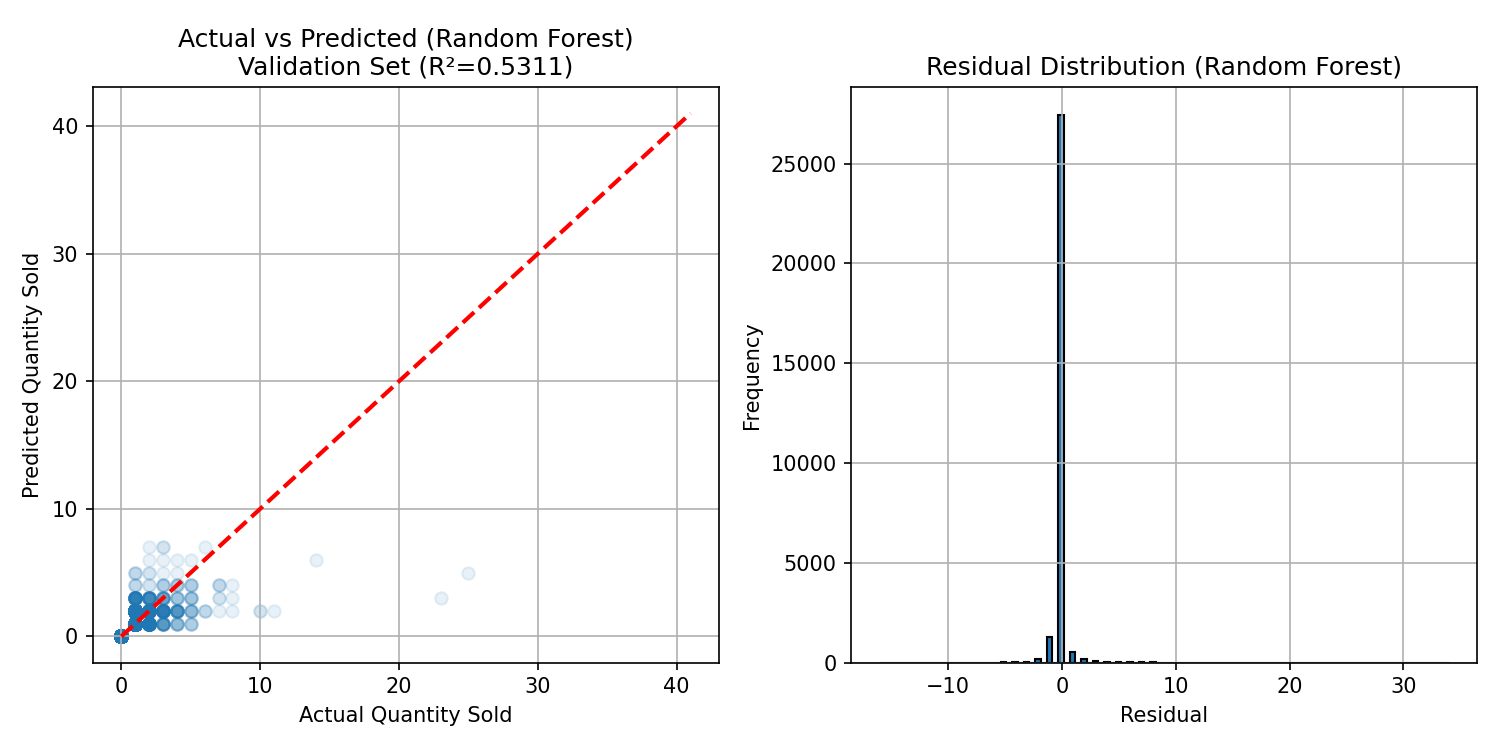
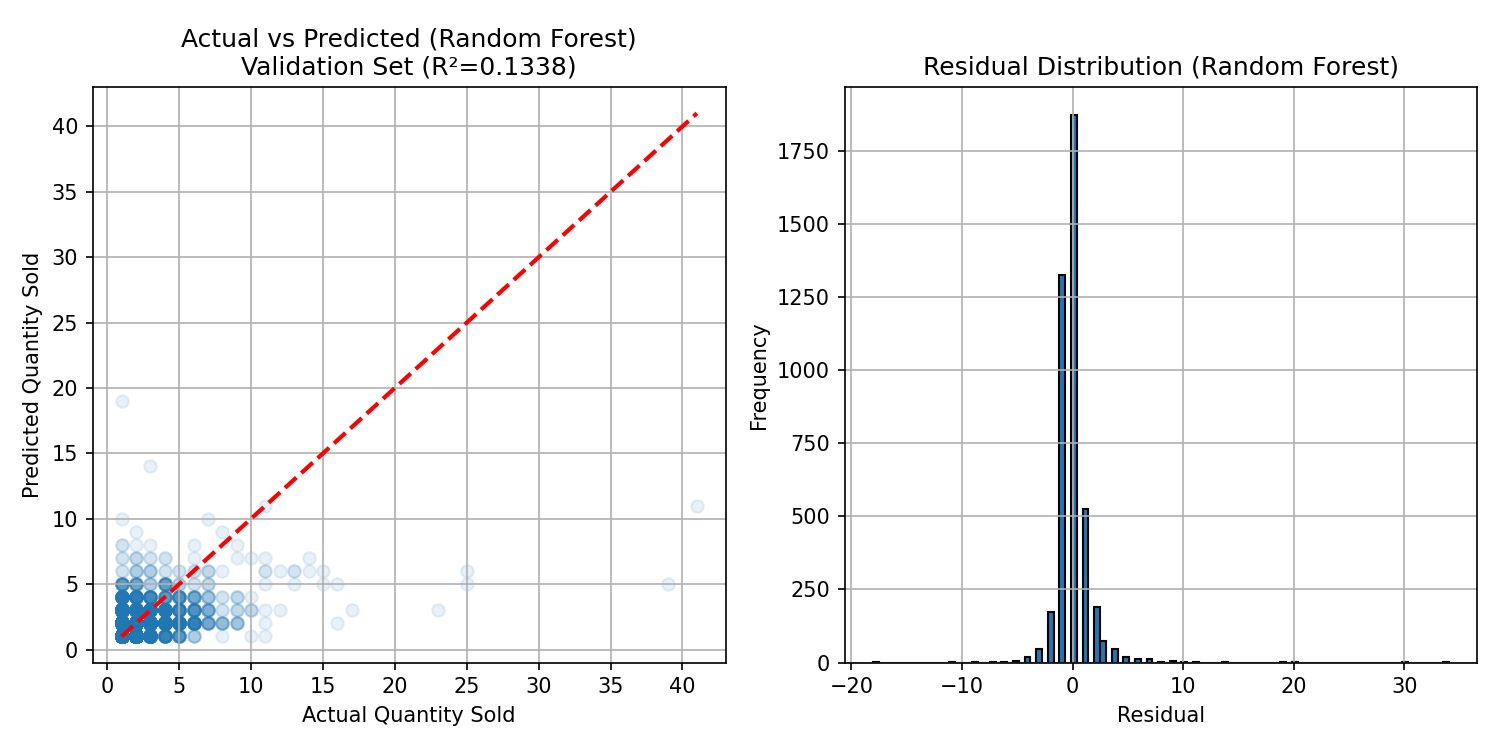
update code

diff --git a/model_olist/main_olist.py b/model_olist/main_olist.py
@@ -6,6 +6,7 @@ from sklearn.metrics import mean_absolute_error, mean_squared_error, r2_score
 import matplotlib.pyplot as plt
 import functools
 import warnings
+import holidays
 from lightgbm import LGBMRegressor
 
 # --- 1. IMPORT MODELS FOR COMPARISON ---
@@ -31,6 +32,8 @@ try:
     df_items = pd.read_csv('olist_order_items_dataset.csv')
     df_products = pd.read_csv('olist_products_dataset.csv')
     df_trans = pd.read_csv('product_category_name_translation.csv')
+    df_sellers = pd.read_csv('olist_sellers_dataset.csv')
+    print("Olist CSV files loaded successfully.")
     # (อาจเพิ่มไฟล์อื่นถ้าต้องการ Feature เพิ่มเติม)
     print("Olist CSV files loaded successfully.")
 except FileNotFoundError as e:
@@ -52,12 +55,22 @@ df = pd.merge(df_orders, df_items, on='order_id', how='inner')
 df = pd.merge(df, df_products, on='product_id', how='left')
 df = pd.merge(df, df_trans, on='product_category_name', how='left')
 
+df_merged = pd.merge(df_orders, df_items, on='order_id', how='inner')
+df_merged = pd.merge(df_merged, df_products, on='product_id', how='left')
+df_merged = pd.merge(df_merged, df_trans, on='product_category_name', how='left')
+df_merged = pd.merge(df_merged, df_sellers[['seller_id', 'seller_state']], on='seller_id', how='left')
+df_merged['seller_state'] = df_merged['seller_state'].fillna('Unknown')
+le_state = LabelEncoder()
+df_merged['seller_state_encoded'] = le_state.fit_transform(df_merged['seller_state'])
+df = df_merged.copy()
+
 # เลือกคอลัมน์ที่จำเป็น + สร้าง Quantity (order_item_id คือ ลำดับ item ใน order ไม่ใช่ quantity)
 df['quantity'] = 1 # Assume each row in order_items is 1 unit sold for simplicity
 df_agg = df[[
     'order_purchase_timestamp',
     'product_id',
     'product_category_name_english',
+    'seller_state_encoded',
     'price', # ราคาขายต่อหน่วย
     'quantity', # สร้างคอลัมน์ quantity
     'product_weight_g',
@@ -77,7 +90,7 @@ df_agg['Date'] = df_agg['order_purchase_timestamp']
 df_agg = df_agg.set_index('Date')
 
 # รวมยอดขายและคำนวณราคาเฉลี่ย รายสัปดาห์ ต่อ Product
-weekly_data = df_agg.groupby(['product_id', 'product_category_name_english', pd.Grouper(freq='W-MON')]).agg(
+weekly_data = df_agg.groupby(['product_id', 'product_category_name_english', 'seller_state_encoded', pd.Grouper(freq='W-MON')]).agg(
     QuantitySold=('quantity', 'count'), # ใช้ count เพราะเราสมมติว่า 1 แถว = 1 ชิ้น
     AverageSellingPrice=('price', 'mean'),
     Weight_g_Mean=('product_weight_g', 'mean'),
@@ -121,85 +134,109 @@ print(f"Date range: {df['Date'].min()} to {df['Date'].max()}")
 print("\n=== Creating Olist Weekly Features ===")
 df = df.sort_values(by=['product_id', 'Date'])
 
-# Encode Category
+# 6.1 Encode Category
 print("Encoding categorical features (Category)...")
 encoders = {}
 le_cat = LabelEncoder()
+# แปลงเป็น category เพื่อลดหน่วยความจำ (ทางเลือก)
+# df['product_category_name_english'] = df['product_category_name_english'].astype('category')
 df['category_encoded'] = le_cat.fit_transform(df['product_category_name_english'])
 encoders['category'] = le_cat
 encoders['product_id'] = 'Numeric'
 
-# Time Features
+# 6.2 Time features (ต้องมาก่อน เพื่อใช้ประกอบกับ holiday)
 print("Creating time features...")
 df['Year'] = df['Date'].dt.year
 df['Month'] = df['Date'].dt.month
-df['Week'] = df['Date'].dt.isocalendar().week.astype(float)
-# --- !! เพิ่มเติม !! ---
-df['DayOfWeek'] = df['Date'].dt.dayofweek # 0=Monday, 6=Sunday
+# เก็บ Week เป็น int ก่อน (เหมาะกับการ merge/groupby)
+df['Week'] = df['Date'].dt.isocalendar().week.astype(int)
+df['DayOfWeek'] = df['Date'].dt.dayofweek          # 0=Mon, 6=Sun
 df['IsWeekend'] = df['DayOfWeek'].isin([5, 6]).astype(int)
 df['Quarter'] = df['Date'].dt.quarter
-# --------------------
+
+# 6.3 Holiday → สร้าง IsHolidayWeek จากปฏิทินจริง แล้ว merge ด้วย (Year, Week)
+print("Building holiday-week feature...")
+br_holidays = holidays.Brazil(
+    years=range(df['Date'].dt.year.min(), df['Date'].dt.year.max() + 1)
+)
+holiday_df = pd.DataFrame({'hday': pd.to_datetime(list(br_holidays.keys()))})
+holiday_df['Year'] = holiday_df['hday'].dt.year
+holiday_df['Week'] = holiday_df['hday'].dt.isocalendar().week.astype(int)
+holiday_weeks = holiday_df[['Year', 'Week']].drop_duplicates()
+holiday_weeks['IsHolidayWeek'] = 1
+
+df = df.merge(holiday_weeks, on=['Year', 'Week'], how='left')
+df['IsHolidayWeek'] = df['IsHolidayWeek'].fillna(0).astype(int)
+
+# 6.4 Cyclical time features (ค่อยแปลง Week → float สำหรับ sine/cos)
 df['Month_Sin'] = np.sin(2 * np.pi * df['Month']/12)
 df['Month_Cos'] = np.cos(2 * np.pi * df['Month']/12)
-df['Week_Sin'] = np.sin(2 * np.pi * df['Week']/52)
-df['Week_Cos'] = np.cos(2 * np.pi * df['Week']/52)
+df['Week'] = df['Week'].astype(float)
+df['Week_Sin']  = np.sin(2 * np.pi * df['Week']/52)
+df['Week_Cos']  = np.cos(2 * np.pi * df['Week']/52)
 
-# Lag Features (ใช้ QuantitySold และ AverageSellingPrice)
+# 6.5 Lag features (Demand & Price)
 print("Creating lag features...")
-df['Qty_Lag_1'] = df.groupby('product_id')['QuantitySold'].shift(1)
+df['Qty_Lag_1']  = df.groupby('product_id')['QuantitySold'].shift(1)
 df['Price_Lag_1'] = df.groupby('product_id')['AverageSellingPrice'].shift(1)
 df['Price_Diff_Lag_1'] = df['AverageSellingPrice'] - df['Price_Lag_1']
-# --- !! เพิ่มเติม !! ---
-df['Qty_Lag_2'] = df.groupby('product_id')['QuantitySold'].shift(2) # Lag 2 สัปดาห์
-df['Qty_Lag_52'] = df.groupby('product_id')['QuantitySold'].shift(52) # Lag 1 ปี
-df['Qty_Lag_3'] = df.groupby('product_id')['QuantitySold'].shift(3)
-df['Qty_Lag_4'] = df.groupby('product_id')['QuantitySold'].shift(4)
-df['Qty_Lag_8'] = df.groupby('product_id')['QuantitySold'].shift(8)
+
+df['Qty_Lag_2']  = df.groupby('product_id')['QuantitySold'].shift(2)
+df['Qty_Lag_3']  = df.groupby('product_id')['QuantitySold'].shift(3)
+df['Qty_Lag_4']  = df.groupby('product_id')['QuantitySold'].shift(4)
+df['Qty_Lag_8']  = df.groupby('product_id')['QuantitySold'].shift(8)
+df['Qty_Lag_52'] = df.groupby('product_id')['QuantitySold'].shift(52)
+
 df['Price_Lag_2'] = df.groupby('product_id')['AverageSellingPrice'].shift(2)
-# --------------------
 
-# Rolling Mean Features
-print("Creating rolling mean features...")
-df['Qty_Roll_Mean_4'] = df.groupby('product_id')['QuantitySold'].shift(1).rolling(window=4, min_periods=1).mean()
-df['Price_Roll_Mean_4'] = df.groupby('product_id')['AverageSellingPrice'].shift(1).rolling(window=4, min_periods=1).mean()
-# --- !! เพิ่มเติม !! ---
-df['Qty_Roll_Std_4'] = df.groupby('product_id')['QuantitySold'].shift(1).rolling(window=4, min_periods=1).std() # Std 4 สัปดาห์
-df['Qty_Roll_Mean_12'] = df.groupby('product_id')['QuantitySold'].shift(1).rolling(window=12, min_periods=1).mean() # Mean 12 สัปดาห์
-# Window 8
-df['Qty_Roll_Mean_8'] = df.groupby('product_id')['QuantitySold'].shift(1).rolling(window=8, min_periods=1).mean()
-df['Qty_Roll_Std_8'] = df.groupby('product_id')['QuantitySold'].shift(1).rolling(window=8, min_periods=1).std()
-df['Qty_Roll_Max_8'] = df.groupby('product_id')['QuantitySold'].shift(1).rolling(window=8, min_periods=1).max()
-df['Price_Roll_Mean_8'] = df.groupby('product_id')['AverageSellingPrice'].shift(1).rolling(window=8, min_periods=1).mean()
+# 6.6 Rolling features
+print("Creating rolling mean/std/max features...")
+df['Qty_Roll_Mean_4']  = df.groupby('product_id')['QuantitySold'].shift(1).rolling(window=4,  min_periods=1).mean()
+df['Price_Roll_Mean_4'] = df.groupby('product_id')['AverageSellingPrice'].shift(1).rolling(window=4,  min_periods=1).mean()
 
-# เพิ่ม .max() สำหรับ window เดิม
-df['Qty_Roll_Max_4'] = df.groupby('product_id')['QuantitySold'].shift(1).rolling(window=4, min_periods=1).max()
-df['Qty_Roll_Max_12'] = df.groupby('product_id')['QuantitySold'].shift(1).rolling(window=12, min_periods=1).max()
-# --------------------
+df['Qty_Roll_Std_4']    = df.groupby('product_id')['QuantitySold'].shift(1).rolling(window=4,  min_periods=1).std()
+df['Qty_Roll_Mean_12']  = df.groupby('product_id')['QuantitySold'].shift(1).rolling(window=12, min_periods=1).mean()
 
-# --- !! เพิ่ม Feature โปรโมชั่นโดยประมาณ !! ---
+df['Qty_Roll_Mean_8']   = df.groupby('product_id')['QuantitySold'].shift(1).rolling(window=8,  min_periods=1).mean()
+df['Qty_Roll_Std_8']    = df.groupby('product_id')['QuantitySold'].shift(1).rolling(window=8,  min_periods=1).std()
+df['Qty_Roll_Max_8']    = df.groupby('product_id')['QuantitySold'].shift(1).rolling(window=8,  min_periods=1).max()
+df['Price_Roll_Mean_8'] = df.groupby('product_id')['AverageSellingPrice'].shift(1).rolling(window=8,  min_periods=1).mean()
+
+df['Qty_Roll_Max_4']    = df.groupby('product_id')['QuantitySold'].shift(1).rolling(window=4,  min_periods=1).max()
+df['Qty_Roll_Max_12']   = df.groupby('product_id')['QuantitySold'].shift(1).rolling(window=12, min_periods=1).max()
+
+# 6.7 Inferred promotion features
 print("Creating inferred promotion features...")
-# คำนวณ % ส่วนลด เทียบกับราคาเฉลี่ย 4 สัปดาห์ก่อนหน้า
 df['Discount_Pct_Approx'] = (df['Price_Roll_Mean_4'] - df['AverageSellingPrice']) / (df['Price_Roll_Mean_4'] + 1e-6)
-df['Is_Discounted_Approx'] = (df['Discount_Pct_Approx'] > 0.05).astype(int) # สมมติว่าลด > 5% คือโปรโมชั่น
-# ----------------------------------------
+df['Is_Discounted_Approx'] = (df['Discount_Pct_Approx'] > 0.05).astype(int)
 
-# Drop rows with NaNs created by Lag/Rolling features (ต้อง Drop เพิ่มเพราะมี Lag_52)
+# 6.8 Interaction features (ต้องมี seller_state_encoded ใน df)
+print("Creating interaction features...")
+df['Cat_x_Weekend'] = df['category_encoded'] * df['IsWeekend']
+df['PriceLag1_x_MonthSin'] = df['Price_Lag_1'].fillna(0) * df['Month_Sin']
+df['QtyLag1_x_SellerState'] = df['Qty_Lag_1'].fillna(0) * df['seller_state_encoded']
+
+# 6.9 Drop NaNs ที่เกิดจาก lag/rolling (รวมถึงฟีเจอร์ที่เพิ่มมา)
 print(f"Shape before dropping NaNs: {df.shape}")
-# (ต้องเพิ่ม Lag_2, Lag_52, Roll_Std_4, Roll_Mean_12, Discount_Pct_Approx เข้าไป)
-df = df.dropna(subset=['Qty_Lag_1', 'Price_Lag_1', 'Qty_Roll_Mean_4', 'Price_Roll_Mean_4',
-                       'Qty_Lag_2', 'Qty_Lag_52', 'Qty_Roll_Std_4', 'Qty_Roll_Mean_12','Qty_Lag_3', 'Qty_Lag_4', 'Qty_Lag_8', 'Price_Lag_2', 'Qty_Roll_Mean_8', 'Qty_Roll_Std_8', 'Qty_Roll_Max_8', 'Price_Roll_Mean_8', 'Qty_Roll_Max_4', 'Qty_Roll_Max_12',
-                       'Discount_Pct_Approx'])
-# กรองสินค้าที่มียอดขาย (ใน Train Set) น้อยเกินไป
+df = df.dropna(subset=[
+    'Qty_Lag_1', 'Price_Lag_1', 'Qty_Roll_Mean_4', 'Price_Roll_Mean_4',
+    'Qty_Lag_2', 'Qty_Lag_52', 'Qty_Roll_Std_4', 'Qty_Roll_Mean_12',
+    'Qty_Lag_3', 'Qty_Lag_4', 'Qty_Lag_8', 'Price_Lag_2',
+    'Qty_Roll_Mean_8', 'Qty_Roll_Std_8', 'Qty_Roll_Max_8', 'Price_Roll_Mean_8',
+    'Qty_Roll_Max_4', 'Qty_Roll_Max_12',
+    'Discount_Pct_Approx', 'Cat_x_Weekend', 'PriceLag1_x_MonthSin', 'QtyLag1_x_SellerState'
+])
+
+# 6.10 กรองสินค้าที่ volume ต่ำ (เพื่อโมเดลนิ่งขึ้น)
 print("Filtering out low-volume products...")
-# เราจะคำนวณยอดขายรวมของ DataFrame ปัจจุบัน (df)
 total_sales_per_product = df.groupby('product_id')['QuantitySold'].transform('sum')
-df = df[total_sales_per_product > 5] #<-- ลองปรับเลข 10 นี้ได้ (เช่น 5 หรือ 20)
+df = df[total_sales_per_product > 5]   # ปรับ threshold ได้ เช่น 5, 10, 20
 print(f"Shape after filtering low-volume products: {df.shape}")
 print(f"Shape after dropping NaNs: {df.shape}")
 
 # --- 7. OLIST FEATURE LIST ---
 features = [
-    'category_encoded',
+    'category_encoded', 'seller_state_encoded',
     # Time Features
     'Year', 'Month', 'Week', 'Month_Sin', 'Month_Cos', 'Week_Sin', 'Week_Cos',
     'DayOfWeek', 'IsWeekend', 'Quarter', 
@@ -210,7 +247,8 @@ features = [
     'Qty_Lag_2', 'Qty_Lag_52', 'Qty_Roll_Std_4', 'Qty_Roll_Mean_12', 'Qty_Lag_3', 'Qty_Lag_4', 'Qty_Lag_8', 'Price_Lag_2', 'Qty_Roll_Mean_8', 'Qty_Roll_Std_8', 'Qty_Roll_Max_8', 'Price_Roll_Mean_8', 'Qty_Roll_Max_4', 'Qty_Roll_Max_12',
     # Promotion Features (Inferred)
     'Discount_Pct_Approx', 'Is_Discounted_Approx' ,
-    'Weight_g_Mean', 'Length_cm_Mean', 'Height_cm_Mean', 'Width_cm_Mean'
+    'Weight_g_Mean', 'Length_cm_Mean', 'Height_cm_Mean', 'Width_cm_Mean',
+    'Cat_x_Weekend', 'PriceLag1_x_MonthSin', 'QtyLag1_x_SellerState'
 ]
 # (คำนวณ NUM_FEATURES ใหม่)
 target = 'QuantitySold'
